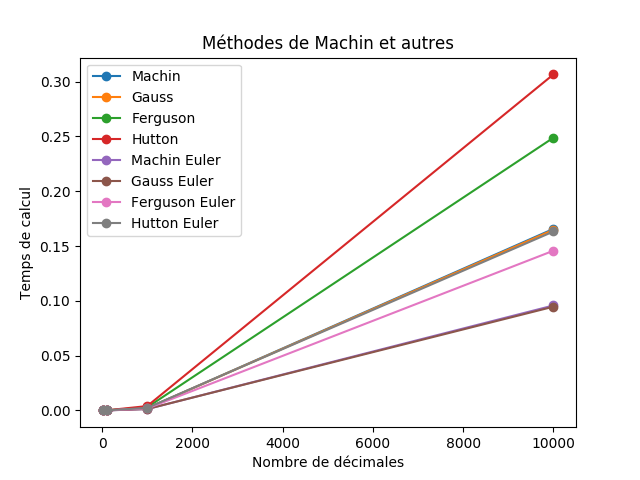
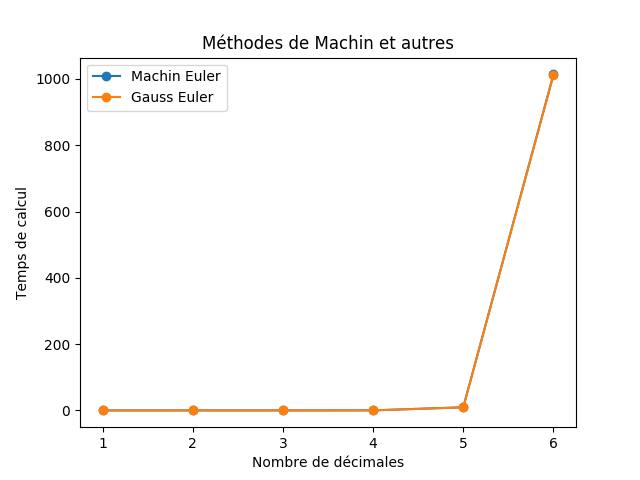
Add results

diff --git a/comparaison/machin2.py b/comparaison/machin2.py
@@ -99,8 +99,6 @@ def hutton_euler(one):
     return 4*(2*arctan_euler(3, one) + arctan_euler(7, one))
 
 
-list_methods = ['machin','gauss','ferguson','hutton','machin_euler','gauss_euler','ferguson_euler','hutton_euler']
-
 def exec_method (name,n):
     '''
     Execute la méthode passée en paramètre et retourne le nombre de décimales `digits`, le temps d'execution `time`, et le nombre de décimales "juste" 
@@ -116,20 +114,36 @@ def exec_method (name,n):
 def lint_name(name):
     return name.capitalize().replace('_e', ' E')
 
-def graph(N):
-    fig, main_ax = plt.subplots()
-    main_ax.set_title('Méthodes de Machin et autres')
-    main_ax.set_xlabel('Nombre de décimales')
-    main_ax.set_ylabel('Temps de calcul')
+def graph(N,list_methods,log):
+    fig, ax1 = plt.subplots()
+    ax1.set_title('Méthodes de Machin et autres')
+    ax1.set_xlabel('Nombre de décimales')
+    ax1.set_ylabel('Temps de calcul')
     X = [ 10**i for i in range (1,N)]
+    if (log):
+        X = [ i for i in range (1,N)]
+        ax1.set_xlabel('log(Nombre de décimales)')
     for method in list_methods:
         time_list=[]
         for i in range (1,N):
             (digits,time,check)=exec_method(method,i)
             time_list.append(time)
-        plt.plot(X,time_list,'o-', label=lint_name(method))
-    plt.legend(loc='upper left')
+        ax1.plot(X,time_list,'o-', label=lint_name(method))
+    ax1.legend(loc='upper left')
     plt.savefig('machin2.png')
-    plt.show()
+    #plt.show()
 
-graph(5)
+
+
+
+list_methods_1 = ['machin','gauss','ferguson','hutton','machin_euler','gauss_euler','ferguson_euler','hutton_euler']
+graph(7, list_methods_1,True)
+
+
+
+#  https://matplotlib.org/3.1.1/api/_as_gen/matplotlib.pyplot.bar.html 
+#    fig, ax2 = plt.subplots()
+#    ind = np.arange(len(list_methods))
+#    plt.bar(ind, check_list)
+#    plt.xticks(ind, list_methods)
+#    plt.show()
